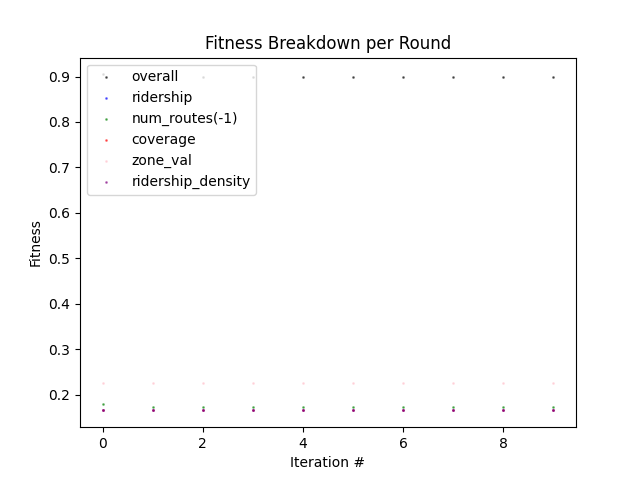
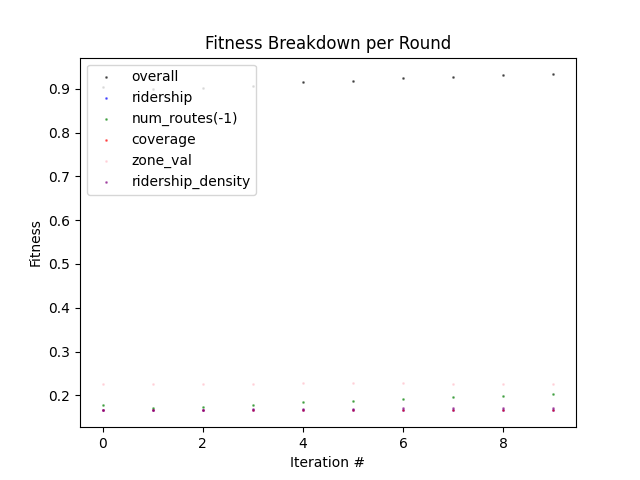
add decreasing cutoff rate

diff --git a/source/genetic_algorithm/population.py b/source/genetic_algorithm/population.py
@@ -25,6 +25,7 @@ class Population:
                        fitness_function, 
                        breeding_function, 
                        elitist_cutoff):
+        
         self.population = networks
         self.population_size = len(networks)
         self.fitness_function = fitness_function
@@ -38,6 +39,8 @@ class Population:
         self.ZoneEvaluator = ZoneEvaluator
         self.done_running = False
         self.running_time = 0.0
+
+        self.max_iteration = None
     
     def evaluate_population(self):
         RootLogger.log_debug('Evaluating population...')
@@ -117,11 +120,13 @@ class Population:
 
         # Select best performing networks
         RootLogger.log_debug(f'Performing Elitist Selection on population.')
-        percent_cutoff = self.elitist_cutoff(self.iteration_number)
+        percent_cutoff = self.elitist_cutoff(self.iteration_number, self.max_iteration)
         elitist_num = int(percent_cutoff*self.population_size)
         sorted_by_performance = sorted(self.population, key=lambda mem: self.performance_dict[mem.unique_id].fitness, reverse=True)
+
         top_performers = sorted_by_performance[:elitist_num]
         bot_performers = sorted_by_performance[elitist_num:]
+
         self.dispose_of_dead_chromosomes(bot_performers)
 
         new_population += top_performers
@@ -164,7 +169,7 @@ class Population:
 
     def run(self, max_iteration: int):
         RootLogger.log_info(f'Running population for {max_iteration} iterations.')
-
+        self.max_iteration = max_iteration
         while self.iteration_number <= max_iteration:
             start_time = time.time()
             RootLogger.log_info(f'On iteration {self.iteration_number} of {max_iteration}.')

diff --git a/source/args_parser.py b/source/args_parser.py
@@ -10,8 +10,9 @@ def cmdline_args():
     p.add_argument("-g", "--num_generations", type=int,
                    help="number of generations.", required=True)
     
-    p.add_argument("-bp", "-best_performer",
-                   action="store_true",
+    p.add_argument("-bp", "--best_performer",
+                   type=bool,
+                   default=False,
                    help="include to enable graphing the best performer after finishing.")
     
     p.add_argument("-in", "--initial_network", 

diff --git a/source/genetic_algorithm/params.py b/source/genetic_algorithm/params.py
@@ -80,8 +80,10 @@ Z12_LON = -122.436089
 Z12_NAME = "Marina District"
 Z12_COLOR = "olive"
 
-def cutoff_by_round(iteration: int) -> float:
-    return 0.1
+def cutoff_by_round(iteration: int, max_iteration: int) -> float:
+    # From [1, max_iteration] -> 0.1 to 0.9
+    val =  0.1 + ((0.8)/(max_iteration- 1))*(iteration - 0.1)
+    return val
 
 def sum_of_fitness_coefficients():
     return RIDERSHIP_LAMBDA + NUM_ROUTES_LAMBDA + COVERAGE_LAMBDA + RIDERSHIP_DENSITY_LAMBDA + ZONE_LAMBDA

diff --git a/source/main.py b/source/main.py
@@ -51,5 +51,5 @@ if __name__ == '__main__':
     args = cmdline_args()
     run_from_network(args.num_generations, args.population_size, initial_network_path=args.initial_network)
     if args.best_performer:
-        examine_best_performer('output/50i100p')
+        examine_best_performer(f'output/{args.num_generations}i{args.population_size}p')
     # create_simplified_gtfs_SFMTA('data/new_initial_net')
